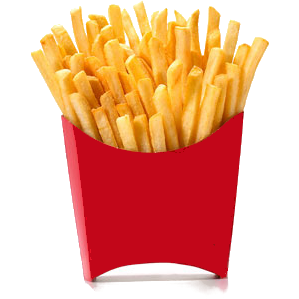
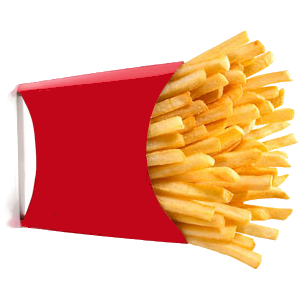
Added new pictures

diff --git a/TabletopBurgers/TabletopBurgers/SurfaceWindow1.xaml b/TabletopBurgers/TabletopBurgers/SurfaceWindow1.xaml
@@ -76,7 +76,7 @@
         <s:SurfaceListBox 
             Grid.Row="0"
             Grid.Column="0"
-            Grid.ColumnSpan="7"
+            Grid.ColumnSpan="6"
             x:Name="ListBox"
             VerticalAlignment="Top"
             ItemsSource="{Binding Path=LibraryItemsTop}"
@@ -99,7 +99,7 @@
         <s:SurfaceListBox 
             Grid.Row="6"
             Grid.Column="0"
-            Grid.ColumnSpan="7"
+            Grid.ColumnSpan="6"
             x:Name="ListBoxDown"
             VerticalAlignment="Top"
             ItemsSource="{Binding Path=LibraryItemsBottom}"
@@ -144,8 +144,8 @@
 
         <s:SurfaceListBox 
             Grid.Column="6"
-            Grid.Row="1"
-            Grid.RowSpan="5"
+            Grid.Row="0"
+            Grid.RowSpan="7"
             x:Name="ListBoxRight"
             HorizontalAlignment="Center"
             ItemsSource="{Binding Path=LibraryItemsRight}"

diff --git a/TabletopBurgers/TabletopBurgers/SurfaceWindow1.xaml.cs b/TabletopBurgers/TabletopBurgers/SurfaceWindow1.xaml.cs
@@ -216,6 +216,9 @@ namespace Drag_and_Drop
             LibraryItemsLeft.Add(new PhotoData("Images/BrawonBreadTS.png", "Top Bread", 10));
             LibraryItemsLeft.Add(new PhotoData("Images/BreadWithSemsonTS.png", "Bottom Bread", 10));
             LibraryItemsLeft.Add(new PhotoData("Images/TopBreadWithSemsonTS.png", "Top Bread", 10));
+            LibraryItemsLeft.Add(new PhotoData("Images/FrenchFriseTS.png", "French Fries", 15));
+            LibraryItemsLeft.Add(new PhotoData("Images/FrenchFriseWithMeat.png", "French Fries with meat", 20));
+            LibraryItemsLeft.Add(new PhotoData("Images/OnionFriesTS.png", "Onion Fries", 15));
 
             LibraryItemsBottom.Add(new PhotoData("Images/CucumberTS.png", "Cucumber", 5));
             LibraryItemsBottom.Add(new PhotoData("Images/TomatoSliceTS.png", "Tomato", 3));
@@ -229,20 +232,34 @@ namespace Drag_and_Drop
             LibraryItemsBottom.Add(new PhotoData("Images/FruitSaladTS.png", "Fruit Salad", 70));
             LibraryItemsBottom.Add(new PhotoData("Images/GreekSaladTS.png", "Greek Salad", 70));
             LibraryItemsBottom.Add(new PhotoData("Images/shrimpSaladTS.png", "Shrimp Salad", 70));
+            LibraryItemsBottom.Add(new PhotoData("Images/cabbage.png", "Cabbage", 4));
+            LibraryItemsBottom.Add(new PhotoData("Images/ovocadoSlice.png", "Avocado", 4));
+            LibraryItemsBottom.Add(new PhotoData("Images/papper.png", "Bell pepper", 4));
+            LibraryItemsBottom.Add(new PhotoData("Images/SpiceTS.png", "Pickles", 4));
 
             LibraryItemsTop.Add(new PhotoData("Images/BlueDountsTS.png", "Blue Dounts", 20));
+            LibraryItemsTop.Add(new PhotoData("Images/StrawberryDonutsTS.png", "Strawberry Dounts", 20));
             LibraryItemsTop.Add(new PhotoData("Images/CaffeLatteTS.png", "Latte", 15));
             LibraryItemsTop.Add(new PhotoData("Images/CaffeeTS.png", "Coffee", 15));
             LibraryItemsTop.Add(new PhotoData("Images/ChocoDounts.png", "Chocolate Donut", 20));
+            LibraryItemsTop.Add(new PhotoData("Images/SugerDonutsTS.png", "Sugar Donut", 20));
             LibraryItemsTop.Add(new PhotoData("Images/chooIceCreamTS.png", "Chocolate ice cream", 10));
+            LibraryItemsTop.Add(new PhotoData("Images/PistasioIcecreamTS.png", "Pistasio ice cream", 10));
             LibraryItemsTop.Add(new PhotoData("Images/CinamonTS.png", "Cinnamon roll", 15));
-            LibraryItemsTop.Add(new PhotoData("Images/cookiesTS.png", "Cookie", 10));
+            LibraryItemsTop.Add(new PhotoData("Images/cookies.png", "Cookie", 10));
             LibraryItemsTop.Add(new PhotoData("Images/CreamDountsTS.png", "Cream Donut", 20));
             LibraryItemsTop.Add(new PhotoData("Images/CupCake3TS.png", "Cupcake", 20));
             LibraryItemsTop.Add(new PhotoData("Images/GreenMuffenTS.png", "Muffin", 20));
+            LibraryItemsTop.Add(new PhotoData("Images/VanilaCupCakeTS.jpg", "Vanilla Cupcake", 20));
+            LibraryItemsTop.Add(new PhotoData("Images/Beer.png", "Beer", 20));
+            LibraryItemsTop.Add(new PhotoData("Images/PEPSITS.png", "Pepsi", 20));
+            LibraryItemsTop.Add(new PhotoData("Images/FantaTS.png", "Fanta", 20));
+            LibraryItemsTop.Add(new PhotoData("Images/SpriteTS.png", "Sprite", 20));
+            LibraryItemsTop.Add(new PhotoData("Images/OrangeTS.png", "Orange Juice", 20));
 
             LibraryItemsRight.Add(new PhotoData("Images/DoubleMeetTS.png", "Meat", 25));
             LibraryItemsRight.Add(new PhotoData("Images/EggTS.png", "Egg    ", 10));
+            LibraryItemsRight.Add(new PhotoData("Images/Egg.png", "Egg 2   ", 10));
             LibraryItemsRight.Add(new PhotoData("Images/BaconTS.png", "Bacon    ", 10));
             LibraryItemsRight.Add(new PhotoData("Images/CheckenBoxTS.png", "Fried Chicken", 40));
             LibraryItemsRight.Add(new PhotoData("Images/CheckenFilletTS.png", "Chicken Fillet", 30));
@@ -251,6 +268,8 @@ namespace Drag_and_Drop
             LibraryItemsRight.Add(new PhotoData("Images/CHesseTS.png", "Cheese", 7));
             LibraryItemsRight.Add(new PhotoData("Images/Ketchup.png", "Ketchup", 1));
             LibraryItemsRight.Add(new PhotoData("Images/SauceTS.png", "Sauce", 1));
+            LibraryItemsRight.Add(new PhotoData("Images/HotDogTS.png", "Hot Dog", 30));
+            LibraryItemsRight.Add(new PhotoData("Images/ShrimpTS.png", "Shrimps", 30));
 
             TagItems.Add(1, new Tag(1, 387, "Stockholm", new DateTime(2015, 5, 20, 12, 51, 28), 8, false, -1));
             TagItems.Add(2, new Tag(2, 7843, "Copenhagen", new DateTime(2015, 5, 20, 14, 28, 03), -1, false, -1));
